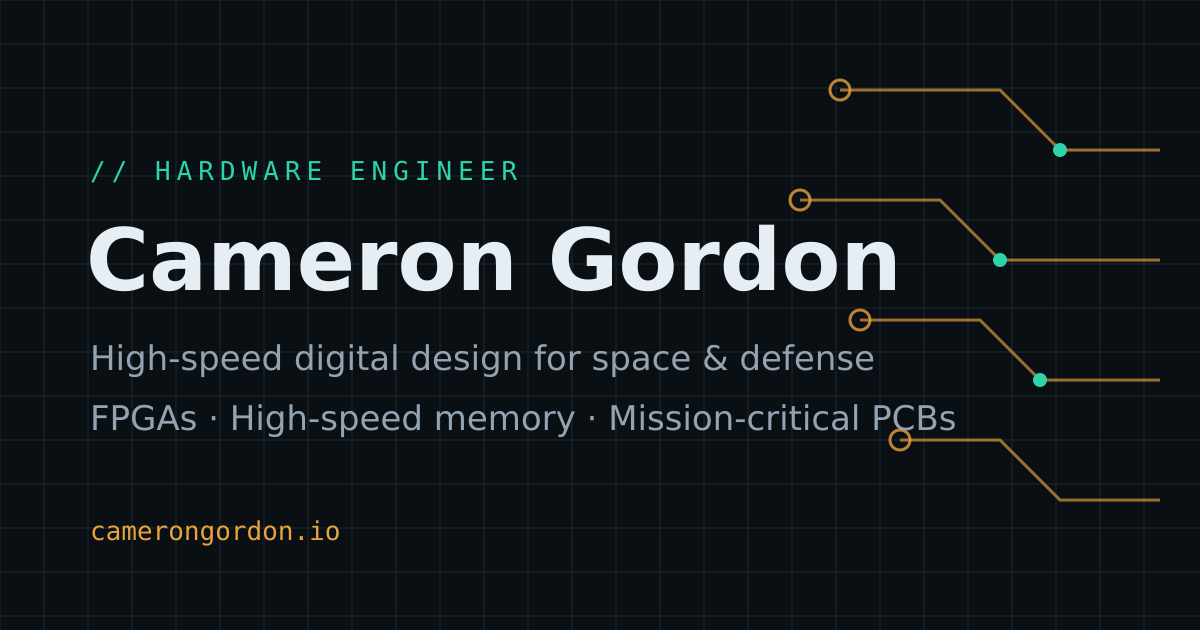
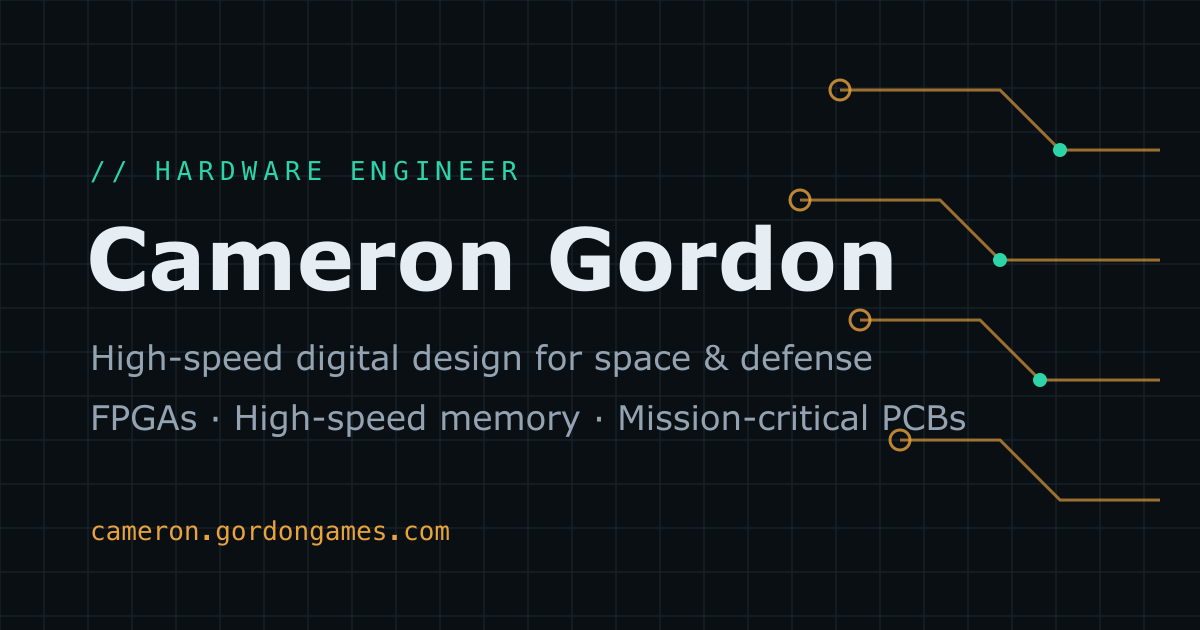
Move to cameron.gordongames.com; Cloudflare Web Analytics replaces GA4 (#2)
* Move to cameron.gordongames.com; Cloudflare Web Analytics replaces GA4

camerongordon.io lapsed, and GitHub Pages still claimed it, so every URL
(the github.io one 301s there) has been unreachable. The site's single
source of truth, site.url, now points at the new host, which carries
metadataBase, og:url, JSON-LD, sitemap.xml and robots.txt with it. The
OG card is regenerated with the new address (`npm run og`, with font
fallbacks named so the render is deliberate off Linux). The CNAME files
go: with a GitHub Actions build GitHub ignores them, and the domain
lives in the Pages setting.

Analytics: the GA4 tag is replaced by Cloudflare's cookie-less beacon,
loaded only when site.cfBeaconToken is set. On a subdomain GA's cookie
would have scoped to all of gordongames.com.

* Analytics: the Cloudflare Web Analytics token, loaded as Cloudflare's snippet does

The site token for cameron.gordongames.com (public by design: it ships in
the page source, and Cloudflare only accepts beacons from the matching
hostname). The script loads as a module, mirroring Cloudflare's own
snippet; its CDN serves open CORS headers, and the bundle finds its token
through the data-cf-beacon attribute, which next/script forwards.

---------

diff --git a/src/data/site.ts b/src/data/site.ts
@@ -1,7 +1,7 @@
 export const site = {
   name: "Cameron Gordon",
   role: "Hardware Engineer",
-  url: "https://camerongordon.io",
+  url: "https://cameron.gordongames.com",
   title: "Cameron Gordon | Hardware Engineer",
   description:
     "Hardware engineer designing environmentally hardened, high-speed digital electronics for space and defense — FPGA integration, high-speed memory, and mission-critical PCB design.",
@@ -10,7 +10,14 @@ export const site = {
   linkedin: "https://www.linkedin.com/in/gordonca",
   github: "https://github.com/camerong888",
   resumePath: "/CameronGordon_Resume.pdf",
-  gaId: "G-RNG371LV3P",
+  /**
+   * Cloudflare Web Analytics site token (cookie-less beacon). It ships in the
+   * page source, so it is not a secret; Cloudflare only accepts beacons from
+   * the hostname the site was created for. Leave empty to load no analytics.
+   * Replaced Google Analytics (G-RNG371LV3P) in Sept 2026: on a subdomain its
+   * cookie would have scoped to all of gordongames.com.
+   */
+  cfBeaconToken: "b9489e7699374fefafff0155429f5d43",
   /**
    * Formspree form ID (e.g. "mabcdefg"). Leave empty to fall back to a
    * mailto: link until the form is created at https://formspree.io.

diff --git a/src/app/layout.tsx b/src/app/layout.tsx
@@ -74,16 +74,16 @@ export default function RootLayout({
           type="application/ld+json"
           dangerouslySetInnerHTML={{ __html: JSON.stringify(personJsonLd) }}
         />
-        <Script
-          src={`https://www.googletagmanager.com/gtag/js?id=${site.gaId}`}
-          strategy="afterInteractive"
-        />
-        <Script id="ga4" strategy="afterInteractive">
-          {`window.dataLayer = window.dataLayer || [];
-            function gtag(){dataLayer.push(arguments);}
-            gtag('js', new Date());
-            gtag('config', '${site.gaId}');`}
-        </Script>
+        {site.cfBeaconToken && (
+          // Mirrors Cloudflare's own snippet: a module script (so legacy
+          // browsers skip it) that reads its token from data-cf-beacon.
+          <Script
+            src="https://static.cloudflareinsights.com/beacon.min.js"
+            type="module"
+            strategy="afterInteractive"
+            data-cf-beacon={JSON.stringify({ token: site.cfBeaconToken })}
+          />
+        )}
       </body>
     </html>
   );

diff --git a/src/components/HashRedirect.tsx b/src/components/HashRedirect.tsx
@@ -5,7 +5,7 @@ import { useRouter } from "next/navigation";
 import { hashRedirects } from "@/data/redirects";
 
 /**
- * Maps legacy HashRouter URLs (camerongordon.io/#/tesla) to their new
+ * Maps legacy HashRouter URLs (the old camerongordon.io/#/tesla) to their new
  * static routes. Hash fragments never reach the server, so this must
  * run on the client.
  */

diff --git a/src/data/redirects.ts b/src/data/redirects.ts
@@ -1,5 +1,5 @@
 /**
- * Legacy HashRouter routes (camerongordon.io/#/foo) → new static paths.
+ * Legacy HashRouter routes (the old camerongordon.io/#/foo) → new static paths.
  * Consumed by HashRedirect on the client; static export has no server redirects.
  */
 export const hashRedirects: Record<string, string> = {

diff --git a/README.md b/README.md
@@ -1,4 +1,4 @@
-# camerongordon.io
+# cameron.gordongames.com
 
 Cameron Gordon's portfolio — a static site built with **Next.js 15** (App Router,
 static export), **Tailwind CSS v4**, **TypeScript**, and **Framer Motion**,
@@ -50,7 +50,13 @@ paste the ID, and the full form activates.
 
 Pushes to `master` trigger `.github/workflows/deploy.yml`, which builds the
 static export (`out/`) and deploys it to GitHub Pages at
-[camerongordon.io](https://camerongordon.io).
+[cameron.gordongames.com](https://cameron.gordongames.com).
+
+The custom domain lives in **Settings → Pages**, not in a `CNAME` file: with a
+GitHub Actions build, GitHub ignores `CNAME` files. DNS is a single **DNS-only**
+(grey cloud) `CNAME cameron → camerong888.github.io` in the gordongames.com
+Cloudflare zone — it must stay unproxied, or GitHub cannot issue or renew the
+certificate. The site previously lived at camerongordon.io (lapsed Sept 2026).
 
 One-time setup: repo **Settings → Pages → Source = "GitHub Actions"**.
 
